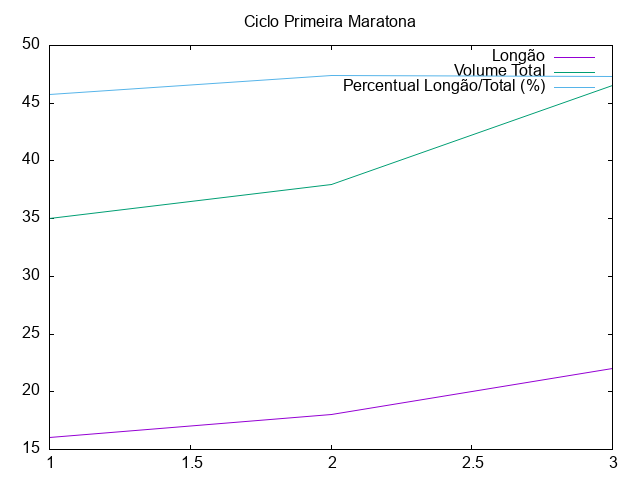
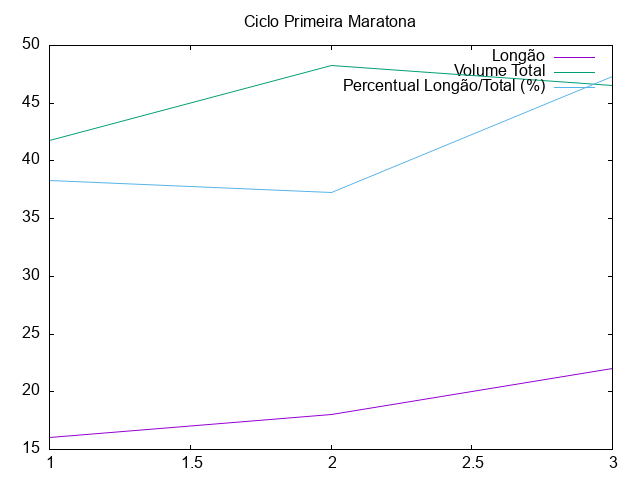
sync marathon

diff --git a/content/20250102100219-primeira_maratona.md b/content/20250102100219-primeira_maratona.md
@@ -26,25 +26,23 @@ Um resumo dos volumes totais e longões.
 
 | # Semana | Longão | Volume Total | Percentual Longão/Total (%) |
 |----------|--------|--------------|-----------------------------|
-| 1        | 16     | 35           | 45.714286                   |
-| 2        | 18     | 38           | 47.368421                   |
+| 1        | 16     | 41.8         | 38.277512                   |
+| 2        | 18     | 48.3         | 37.267081                   |
 | 3        | 22     | 46.5         | 47.311828                   |
 
 {{< figure src="/img/volume_primeira_maratona.png" caption="<span class=\"figure-number\">Figure 2: </span>Volume Total semanal da minha primeira Maratona" >}}
 
 
-## Diário Semanal <span class="tag"><span class="TOC">TOC</span></span> {#diário-semanal}
+## Diario semanal {#diario-semanal}
 
--
--
--
+Break down of each week of training.
 
 
-## Semana 1 {#semana-1}
+### Semana_1 {#semana-1}
 
 -   23 até 28 de Dezembro
--   Volume Total: **35km**
--   Intensidade Total: **200 TSS**
+-   Volume Total (Realizado / Planejado):  **41.8km**  / 35km
+-   Intensidade Total: **311 TSS**
 -   Longão: **16KM**
 -   Fortalecimento:
     -   Duas sessões com foco em aumento de força, menos repetições e mais carga
@@ -59,6 +57,8 @@ Um resumo dos volumes totais e longões.
                 -   600m forte no pace 5'02"/km
                 -   400m fraco no pace 5'50"/km
                 -   Desaquecimento: 1km no pace 5'27"/km
+        -   Terça
+            -   **7km em ritmo leve 5'30"/km  feito por conta própria**
         -   Quarta - 8.7km
             -   Aquecimento: 3km no pace 5'27"/km
             -   Repetir 10 vezes
@@ -69,11 +69,11 @@ Um resumo dos volumes totais e longões.
             -   16km no pace de 5'14"/km
 
 
-## Semana 2 {#semana-2}
+### Semana_2 {#semana-2}
 
 -   30 Dezembro até 04 de Janeiro 2025
--   Volume Total: **38km**
--   Intensidade Total: **218 TSS**
+-   Volume Total (Realizado / Planejado):  **48.3km**  / 38km
+-   Intensidade Total: **300 TSS**
 -   Longão: **18km**
 -   Fortalecimento:
     -   <span class="underline">Nenhuma sessão de fortalecimento</span>
@@ -100,12 +100,14 @@ Um resumo dos volumes totais e longões.
             -   Desaquecimento: 1km no pace 5'27"/km
         -   Sabado - 18km
             -   18km no pace 5'14"/km
+        -   Domingo - 10.2km
+            -   \*10.2km em ritmo leve 6'45"/km  feito por conta própria com o Douglas
 
 
-## Semana 3 {#semana-3}
+### Semana_3 {#semana-3}
 
 -   06 de Janeiro até 12 de Janeiro 2025
--   Volume Total: **45.6km**
+-   Volume Total (Realizado / Planejado):  **48.3km**  / 46.5km
 -   Intensidade Total: **271 TSS**
 -   Longão: **22km**
 -   Fortalecimento:
@@ -128,6 +130,8 @@ Um resumo dos volumes totais e longões.
                 -   400m forte no pace 4'48"/km
                 -   100m caminhando no pace 10'00"/km
             -   Desaquecimento: 1km no pace 5'27"/km
+        -   Sexta-feira
+            -   O Alessandro pediu para eu correr por conta própria em um ritmo leve
         -   Sabado - 22km
             -   Aquecimento: 6km progressivo
                 -   500m com 5'20"/km
